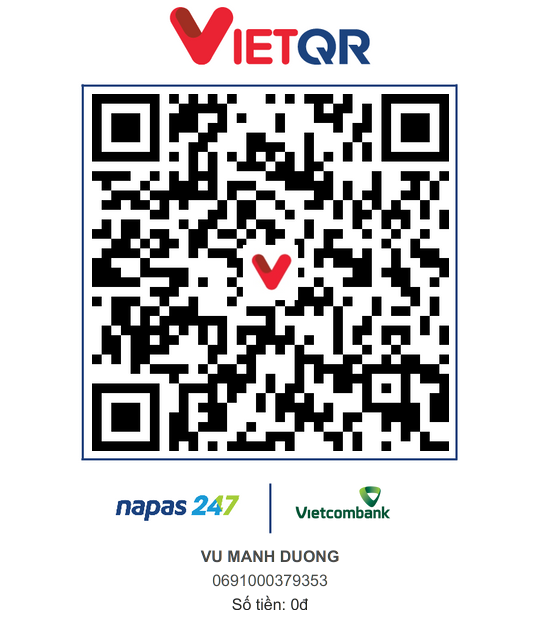
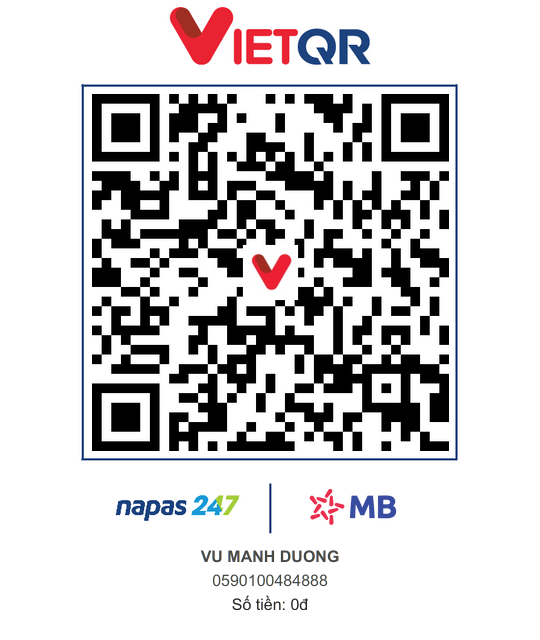
Cap nhat ban do dinh vi Nha Trai - Nha Gai, STK MB Bank chu re va toi uu typography

diff --git a/index.html b/index.html
@@ -166,6 +166,13 @@
                 <span>Bà Vũ Thị Hồng</span>
               </p>
               <p class="parents-address">Xóm 3, Trung Lao, Xã Cổ Lễ, Tỉnh Ninh Bình</p>
+              <a href="https://maps.app.goo.gl/7sFrr7hu5XZKAVQd8?g_st=ipc" target="_blank" rel="noopener" class="parents-map-btn" title="Chỉ đường tới nhà trai">
+                <svg width="12" height="12" viewBox="0 0 24 24" fill="none" stroke="currentColor" stroke-width="2.2" aria-hidden="true">
+                  <path d="M12 2C8.13 2 5 5.13 5 9c0 5.25 7 13 7 13s7-7.75 7-13c0-3.87-3.13-7-7-7z" />
+                  <circle cx="12" cy="9" r="2.5" />
+                </svg>
+                Xem bản đồ
+              </a>
             </div>
 
             <div class="parents-divider" aria-hidden="true"></div>
@@ -177,6 +184,13 @@
                 <span>Bà Phạm Thị Phương</span>
               </p>
               <p class="parents-address">Số 129 đường Hữu Nghị, Xã Cổ Lễ, Tỉnh Ninh Bình</p>
+              <a href="https://maps.app.goo.gl/dgN5ZMTHC8GcDK5C8?g_st=ipc" target="_blank" rel="noopener" class="parents-map-btn" title="Chỉ đường tới nhà gái">
+                <svg width="12" height="12" viewBox="0 0 24 24" fill="none" stroke="currentColor" stroke-width="2.2" aria-hidden="true">
+                  <path d="M12 2C8.13 2 5 5.13 5 9c0 5.25 7 13 7 13s7-7.75 7-13c0-3.87-3.13-7-7-7z" />
+                  <circle cx="12" cy="9" r="2.5" />
+                </svg>
+                Xem bản đồ
+              </a>
             </div>
           </div>
 
@@ -452,32 +466,58 @@
             </div>
           </div>
 
-          <div class="map-frame">
-            <iframe
-              src="https://www.google.com/maps?q=S%E1%BB%91%20129%20%C4%91%C6%B0%E1%BB%9Dng%20H%E1%BB%AFu%20Ngh%E1%BB%8B%2C%20X%C3%A3%20C%E1%BB%95%20L%E1%BB%85%2C%20T%E1%BB%89nh%20Ninh%20B%C3%ACnh&output=embed"
-              width="100%" height="220" style="border:0;" allowfullscreen="" loading="lazy"
-              referrerpolicy="no-referrer-when-downgrade" title="Bản đồ địa điểm tiệc cưới"></iframe>
-          </div>
+          <!-- Map Section with Groom & Bride Switcher -->
+          <div class="map-section-wrap">
+            <div class="map-tabs" role="tablist" aria-label="Chọn bản đồ địa điểm tiệc cưới">
+              <button type="button" class="map-tab active" id="tab-map-groom" role="tab" aria-selected="true" aria-controls="map-frame">
+                <svg width="14" height="14" viewBox="0 0 24 24" fill="none" stroke="currentColor" stroke-width="2.2" aria-hidden="true">
+                  <path d="M12 2C8.13 2 5 5.13 5 9c0 5.25 7 13 7 13s7-7.75 7-13c0-3.87-3.13-7-7-7z" />
+                  <circle cx="12" cy="9" r="2.5" />
+                </svg>
+                Tiệc Nhà Trai
+              </button>
+              <button type="button" class="map-tab" id="tab-map-bride" role="tab" aria-selected="false" aria-controls="map-frame">
+                <svg width="14" height="14" viewBox="0 0 24 24" fill="none" stroke="currentColor" stroke-width="2.2" aria-hidden="true">
+                  <path d="M12 2C8.13 2 5 5.13 5 9c0 5.25 7 13 7 13s7-7.75 7-13c0-3.87-3.13-7-7-7z" />
+                  <circle cx="12" cy="9" r="2.5" />
+                </svg>
+                Tiệc Nhà Gái
+              </button>
+            </div>
 
-          <div class="ceremony-actions">
-            <a href="https://www.google.com/maps/search/?api=1&amp;query=S%E1%BB%91%20129%20%C4%91%C6%B0%E1%BB%9Dng%20H%E1%BB%AFu%20Ngh%E1%BB%8B%2C%20X%C3%A3%20C%E1%BB%95%20L%E1%BB%85%2C%20T%E1%BB%89nh%20Ninh%20B%C3%ACnh"
-              target="_blank" rel="noopener" class="btn-action btn-primary">
-              <svg width="16" height="16" viewBox="0 0 24 24" fill="none" stroke="currentColor" stroke-width="2">
-                <path d="M12 2C8.13 2 5 5.13 5 9c0 5.25 7 13 7 13s7-7.75 7-13c0-3.87-3.13-7-7-7z" />
-                <circle cx="12" cy="9" r="2.5" />
-              </svg>
-              Xem Bản Đồ
-            </a>
+            <div class="map-location-info">
+              <span class="map-location-title" id="map-location-title">Tư Gia Nhà Trai</span>
+              <p class="map-location-address" id="map-location-address">Xóm 3, Trung Lao, Xã Cổ Lễ, Tỉnh Ninh Bình</p>
+            </div>
 
-            <button id="btn-add-calendar" class="btn-action btn-outline" type="button">
-              <svg width="16" height="16" viewBox="0 0 24 24" fill="none" stroke="currentColor" stroke-width="2">
-                <rect x="3" y="4" width="18" height="18" rx="2" ry="2" />
-                <line x1="16" y1="2" x2="16" y2="6" />
-                <line x1="8" y1="2" x2="8" y2="6" />
-                <line x1="3" y1="10" x2="21" y2="10" />
-              </svg>
-              Thêm Vào Lịch
-            </button>
+            <div class="map-frame" id="map-frame">
+              <iframe
+                id="map-iframe"
+                src="https://maps.google.com/maps?q=20.3043333,106.2621111&amp;hl=vi&amp;z=16&amp;output=embed"
+                width="100%" height="220" style="border:0;" allowfullscreen="" loading="lazy"
+                referrerpolicy="no-referrer-when-downgrade" title="Bản đồ địa điểm tiệc cưới"></iframe>
+            </div>
+
+            <div class="ceremony-actions">
+              <a id="btn-view-map" href="https://maps.app.goo.gl/7sFrr7hu5XZKAVQd8?g_st=ipc"
+                target="_blank" rel="noopener" class="btn-action btn-primary">
+                <svg width="16" height="16" viewBox="0 0 24 24" fill="none" stroke="currentColor" stroke-width="2" aria-hidden="true">
+                  <path d="M12 2C8.13 2 5 5.13 5 9c0 5.25 7 13 7 13s7-7.75 7-13c0-3.87-3.13-7-7-7z" />
+                  <circle cx="12" cy="9" r="2.5" />
+                </svg>
+                <span id="btn-map-text">Chỉ Đường Nhà Trai</span>
+              </a>
+
+              <button id="btn-add-calendar" class="btn-action btn-outline" type="button">
+                <svg width="16" height="16" viewBox="0 0 24 24" fill="none" stroke="currentColor" stroke-width="2" aria-hidden="true">
+                  <rect x="3" y="4" width="18" height="18" rx="2" ry="2" />
+                  <line x1="16" y1="2" x2="16" y2="6" />
+                  <line x1="8" y1="2" x2="8" y2="6" />
+                  <line x1="3" y1="10" x2="21" y2="10" />
+                </svg>
+                Thêm Vào Lịch
+              </button>
+            </div>
           </div>
         </article>
       </div>
@@ -608,10 +648,10 @@
           <h4 class="bank-title">Chú Rể — Vũ Mạnh Dưỡng</h4>
           <img class="bank-qr-img" src="images/qr-groom.png" alt="Mã VietQR chuyển khoản cho chú rể" width="540"
             height="640" loading="lazy">
-          <p class="bank-name">Vietcombank (VCB)</p>
+          <p class="bank-name">MB Bank (Ngân hàng Quân Đội)</p>
           <div class="account-number-box">
-            <span class="acc-num">0691000379353</span>
-            <button class="btn-copy" type="button" onclick="copyAcc('0691000379353')">Sao chép</button>
+            <span class="acc-num">0590100484888</span>
+            <button class="btn-copy" type="button" onclick="copyAcc('0590100484888')">Sao chép</button>
           </div>
           <p class="bank-owner">Chủ tài khoản: VŨ MẠNH DƯỠNG</p>
         </div>

diff --git a/app.js b/app.js
@@ -545,13 +545,83 @@ document.addEventListener('DOMContentLoaded', () => {
     revealEls.forEach(el => revealObserver.observe(el));
   }
 
-  // 7. ADD TO CALENDAR EVENT
+  // 7. MAP TABS & LOCATION SWITCHER (NHÀ TRAI / NHÀ GÁI)
+  const tabMapGroom = document.getElementById('tab-map-groom');
+  const tabMapBride = document.getElementById('tab-map-bride');
+  const mapIframe = document.getElementById('map-iframe');
+  const mapLocationTitle = document.getElementById('map-location-title');
+  const mapLocationAddress = document.getElementById('map-location-address');
+  const btnViewMap = document.getElementById('btn-view-map');
+  const btnMapText = document.getElementById('btn-map-text');
+
+  const mapData = {
+    groom: {
+      title: 'Tư Gia Nhà Trai',
+      address: 'Xóm 3, Trung Lao, Xã Cổ Lễ, Tỉnh Ninh Bình',
+      embedUrl: 'https://maps.google.com/maps?q=20.3043333,106.2621111&hl=vi&z=16&output=embed',
+      mapsUrl: 'https://maps.app.goo.gl/7sFrr7hu5XZKAVQd8?g_st=ipc',
+      btnText: 'Chỉ Đường Nhà Trai'
+    },
+    bride: {
+      title: 'Tư Gia Nhà Gái',
+      address: 'Số 129 đường Hữu Nghị, Xã Cổ Lễ, Tỉnh Ninh Bình',
+      embedUrl: 'https://maps.google.com/maps?q=20.3168611,106.2696111&hl=vi&z=16&output=embed',
+      mapsUrl: 'https://maps.app.goo.gl/dgN5ZMTHC8GcDK5C8?g_st=ipc',
+      btnText: 'Chỉ Đường Nhà Gái'
+    }
+  };
+
+  let currentMapSide = 'groom';
+
+  const switchMapSide = (side) => {
+    if (!mapData[side]) return;
+    currentMapSide = side;
+    const target = mapData[side];
+
+    if (side === 'groom') {
+      tabMapGroom?.classList.add('active');
+      tabMapGroom?.setAttribute('aria-selected', 'true');
+      tabMapBride?.classList.remove('active');
+      tabMapBride?.setAttribute('aria-selected', 'false');
+    } else {
+      tabMapBride?.classList.add('active');
+      tabMapBride?.setAttribute('aria-selected', 'true');
+      tabMapGroom?.classList.remove('active');
+      tabMapGroom?.setAttribute('aria-selected', 'false');
+    }
+
+    if (mapLocationTitle) mapLocationTitle.textContent = target.title;
+    if (mapLocationAddress) mapLocationAddress.textContent = target.address;
+    if (mapIframe && mapIframe.src !== target.embedUrl) {
+      mapIframe.src = target.embedUrl;
+    }
+    if (btnViewMap) btnViewMap.href = target.mapsUrl;
+    if (btnMapText) btnMapText.textContent = target.btnText;
+  };
+
+  tabMapGroom?.addEventListener('click', () => switchMapSide('groom'));
+  tabMapBride?.addEventListener('click', () => switchMapSide('bride'));
+
+  // Sync map tab when guest side is selected in RSVP form
+  const guestSideInputs = document.querySelectorAll('input[name="guest-side"]');
+  guestSideInputs.forEach(input => {
+    input.addEventListener('change', (e) => {
+      if (e.target.value === 'Khách nhà gái') {
+        switchMapSide('bride');
+      } else {
+        switchMapSide('groom');
+      }
+    });
+  });
+
+  // 7.1 ADD TO CALENDAR EVENT (cập nhật theo địa điểm đang chọn)
   const btnAddCalendar = document.getElementById('btn-add-calendar');
   if (btnAddCalendar) {
     btnAddCalendar.addEventListener('click', () => {
+      const activeLoc = mapData[currentMapSide] || mapData.groom;
       const title = encodeURIComponent('Lễ Cưới Mạnh Dưỡng & Quỳnh Như');
-      const details = encodeURIComponent('Trân trọng kính mời quý khách đến dự tiệc cưới của Mạnh Dưỡng & Quỳnh Như tại Số 129 đường Hữu Nghị, Xã Cổ Lễ, Tỉnh Ninh Bình.');
-      const location = encodeURIComponent('Số 129 đường Hữu Nghị, Xã Cổ Lễ, Tỉnh Ninh Bình');
+      const details = encodeURIComponent(`Trân trọng kính mời quý khách đến dự tiệc cưới của Mạnh Dưỡng & Quỳnh Như tại ${activeLoc.title} (${activeLoc.address}).`);
+      const location = encodeURIComponent(activeLoc.address);
       const dates = '20261018T040000Z/20261018T060000Z'; // UTC 11:00 AM VN time
 
       const googleCalUrl = `https://calendar.google.com/calendar/render?action=TEMPLATE&text=${title}&details=${details}&location=${location}&dates=${dates}`;

diff --git a/styles.css b/styles.css
@@ -35,7 +35,7 @@
   --font-serif: 'EB Garamond', 'Cormorant Garamond', serif;
   --font-label: 'Cormorant Garamond', serif;
   --font-body: 'Lora', Georgia, serif;
-  --font-caps: 'Uchen', 'Cormorant Garamond', serif;
+  --font-caps: 'Cormorant Garamond', 'EB Garamond', serif;
 }
 
 * {
@@ -915,8 +915,9 @@ html.no-scroll body {
 .parents-tag {
   display: inline-block;
   font-family: var(--font-caps);
-  font-size: 0.68rem;
-  letter-spacing: 2px;
+  font-size: 0.8rem;
+  letter-spacing: 0.8px;
+  font-weight: 600;
   text-transform: uppercase;
   color: var(--gold-light);
   margin-bottom: 8px;
@@ -938,6 +939,29 @@ html.no-scroll body {
   font-size: 0.76rem;
   font-style: italic;
   color: var(--text-cream-dim);
+}
+
+.parents-map-btn {
+  display: inline-flex;
+  align-items: center;
+  gap: 5px;
+  margin-top: 8px;
+  padding: 4px 12px;
+  border-radius: 20px;
+  font-family: var(--font-body);
+  font-size: 0.72rem;
+  color: var(--gold-light);
+  border: 1px solid rgba(228, 201, 141, 0.4);
+  background: rgba(201, 162, 74, 0.1);
+  text-decoration: none;
+  transition: all 0.25s ease;
+}
+
+.parents-map-btn:hover {
+  background: rgba(201, 162, 74, 0.25);
+  border-color: var(--gold-light);
+  color: #ffffff;
+  transform: translateY(-1px);
 }
 
 /* -- Couple names -- */
@@ -968,8 +992,9 @@ html.no-scroll body {
 .couple-role {
   display: block;
   font-family: var(--font-caps);
-  font-size: 0.62rem;
-  letter-spacing: 2px;
+  font-size: 0.72rem;
+  letter-spacing: 0.8px;
+  font-weight: 600;
   text-transform: uppercase;
   color: var(--gold-light);
   opacity: 0.9;
@@ -1319,16 +1344,104 @@ html.no-scroll body {
   z-index: 1;
 }
 
+/* -- Map Section & Switcher Tabs -- */
+.map-section-wrap {
+  margin-top: 26px;
+  position: relative;
+}
+
+.map-tabs {
+  display: flex;
+  justify-content: center;
+  gap: 10px;
+  margin-bottom: 16px;
+}
+
+.map-tab {
+  display: inline-flex;
+  align-items: center;
+  gap: 7px;
+  padding: 8px 18px;
+  border-radius: 50px;
+  font-family: var(--font-label);
+  font-size: 0.88rem;
+  font-weight: 600;
+  letter-spacing: 0.6px;
+  color: var(--text-cream-dim);
+  background: rgba(236, 228, 216, 0.08);
+  border: 1.5px solid rgba(236, 228, 216, 0.25);
+  cursor: pointer;
+  transition: all 0.28s ease;
+  user-select: none;
+}
+
+.map-tab svg {
+  transition: transform 0.28s ease;
+}
+
+.map-tab:hover {
+  background: rgba(236, 228, 216, 0.18);
+  color: var(--text-cream);
+  transform: translateY(-1px);
+}
+
+.map-tab.active {
+  background: var(--text-cream);
+  color: var(--red);
+  border-color: var(--text-cream);
+  box-shadow: 0 4px 14px rgba(0, 0, 0, 0.25);
+  font-weight: 700;
+}
+
+.map-tab.active svg {
+  stroke: var(--red);
+  transform: scale(1.1);
+}
+
+.map-location-info {
+  text-align: center;
+  margin-bottom: 14px;
+  min-height: 48px;
+  display: flex;
+  flex-direction: column;
+  justify-content: center;
+  align-items: center;
+  transition: opacity 0.25s ease;
+}
+
+.map-location-title {
+  display: inline-block;
+  font-family: var(--font-serif);
+  font-size: 0.96rem;
+  font-weight: 600;
+  letter-spacing: 0.5px;
+  text-transform: uppercase;
+  color: var(--gold-light);
+  margin-bottom: 3px;
+}
+
+.map-location-address {
+  font-family: var(--font-body);
+  font-size: 0.82rem;
+  color: var(--text-cream);
+  font-style: italic;
+  opacity: 0.95;
+  line-height: 1.4;
+}
+
 .map-frame {
-  border-radius: 10px;
+  border-radius: 12px;
   overflow: hidden;
   margin-bottom: 24px;
-  border: 1px solid rgba(236, 228, 216, 0.25);
-  filter: saturate(0.9);
+  border: 1px solid rgba(236, 228, 216, 0.28);
+  filter: saturate(0.92);
+  box-shadow: 0 6px 18px rgba(0, 0, 0, 0.18);
+  background: rgba(81, 20, 25, 0.4);
 }
 
 .map-frame iframe {
   display: block;
+  transition: opacity 0.3s ease;
 }
 
 /* ==========================================================================
